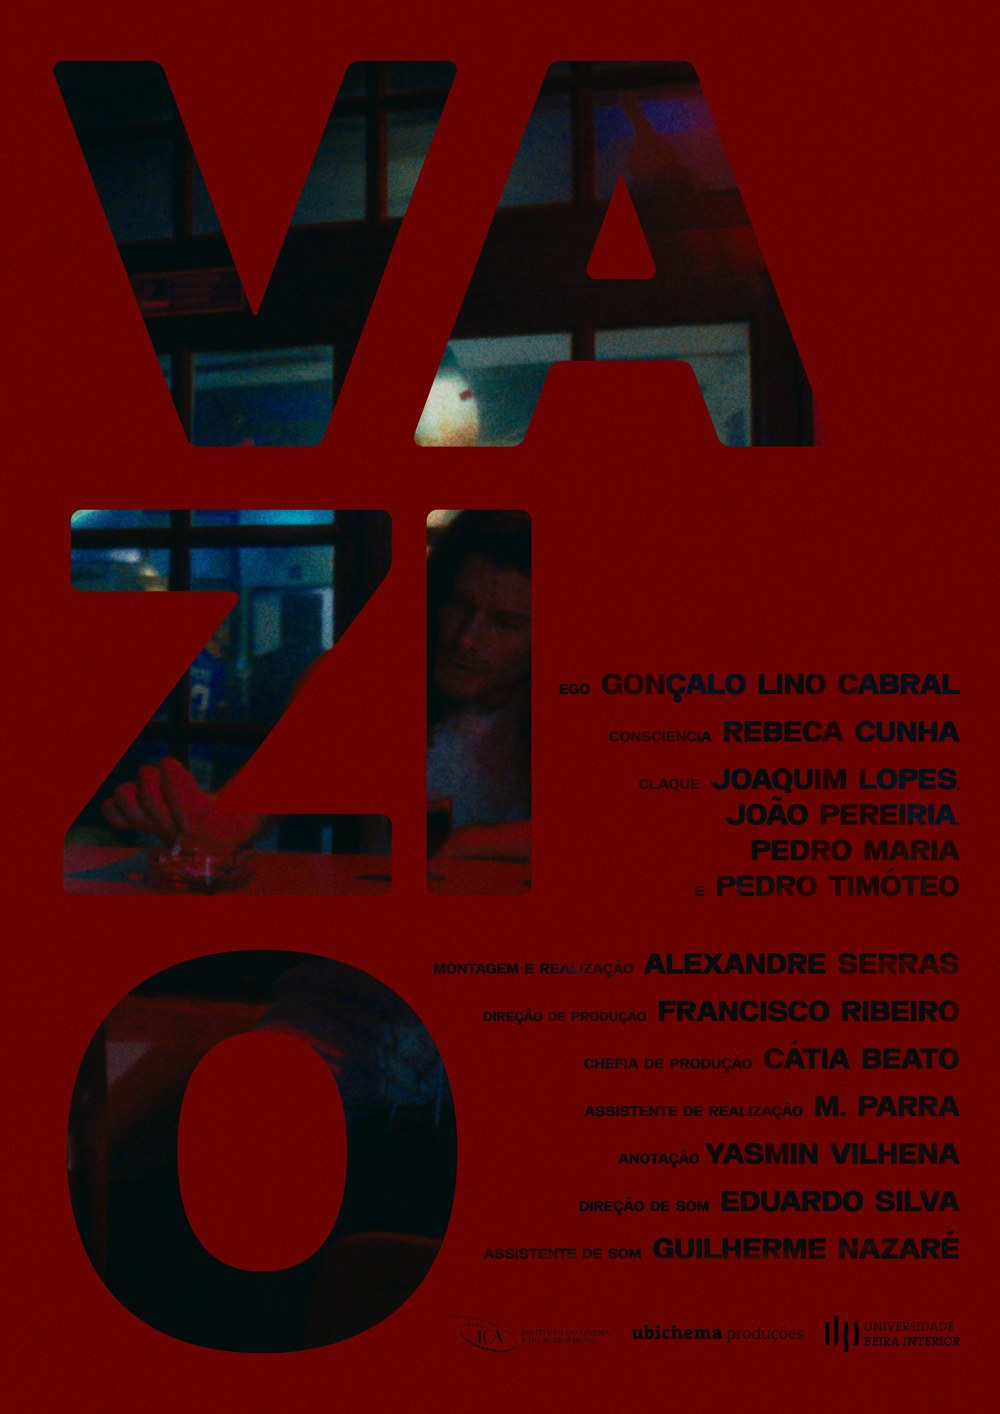
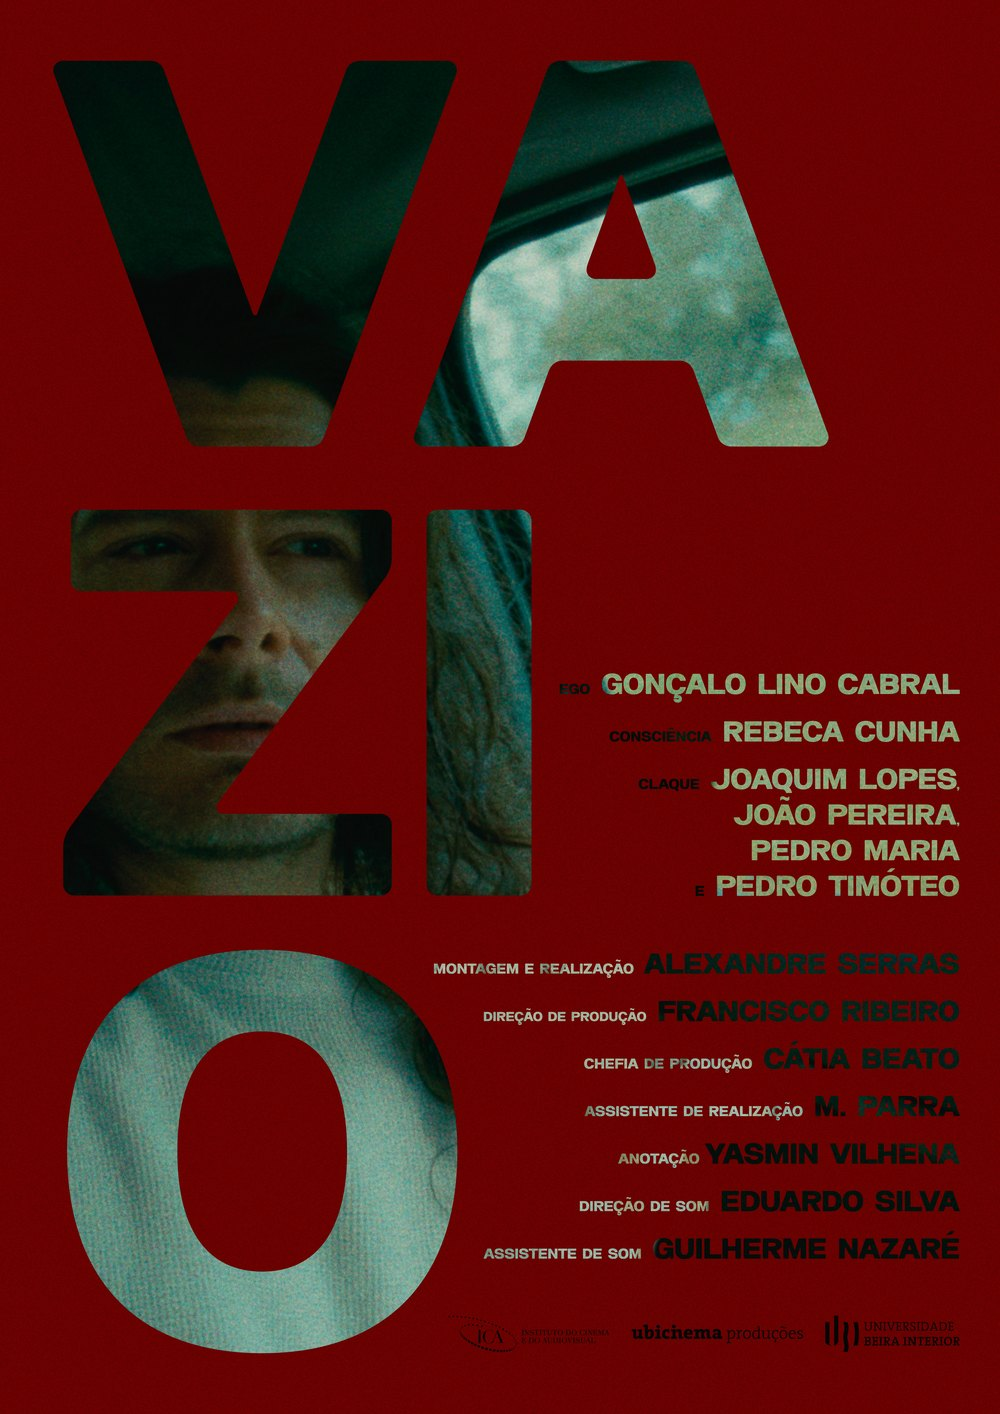
Vazio: novo cartaz no Cinema, na página do filme e na galeria Cartazes

diff --git a/en/05-cartazes.html b/en/05-cartazes.html
@@ -28,7 +28,7 @@
       <div class="chap-head"><span class="chap-num">05</span><h2 class="chap-name">POSTERS</h2></div>
       <div class="sec-block" id="a">
         <div class="sec-code">05.1 / GALLERY</div>
-        <div class="shots posters"><button type="button" class="shot" data-full="../images/cartazes/01.jpg" aria-label="Open poster B4"><img src="../images/cartazes/01-t.jpg" alt="Poster B4" width="520" height="735" loading="lazy"></button><button type="button" class="shot" data-full="../images/cartazes/02.jpg" aria-label="Open poster Desconsoada"><img src="../images/cartazes/02-t.jpg" alt="Poster Desconsoada" width="520" height="735" loading="lazy"></button><button type="button" class="shot" data-full="../images/cartazes/03.jpg" aria-label="Open poster Seja Como For"><img src="../images/cartazes/03-t.jpg" alt="Poster Seja Como For" width="520" height="735" loading="lazy"></button><button type="button" class="shot" data-full="../images/cartazes/04.jpg" aria-label="Open poster Nice Voyage"><img src="../images/cartazes/04-t.jpg" alt="Poster Nice Voyage" width="520" height="735" loading="lazy"></button><button type="button" class="shot" data-full="../images/cartazes/05.jpg" aria-label="Open poster Lumen"><img src="../images/cartazes/05-t.jpg" alt="Poster Lumen" width="520" height="735" loading="lazy"></button><button type="button" class="shot" data-full="../images/cartazes/06.jpg" aria-label="Open poster Traditional Tile Workshop"><img src="../images/cartazes/06-t.jpg" alt="Poster Traditional Tile Workshop" width="520" height="735" loading="lazy"></button><button type="button" class="shot" data-full="../images/cartazes/07.jpg" aria-label="Open poster Traz o Teu Cinema"><img src="../images/cartazes/07-t.jpg" alt="Poster Traz o Teu Cinema" width="520" height="735" loading="lazy"></button><button type="button" class="shot" data-full="../images/cartazes/08.jpg" aria-label="Open poster Eurodance DJ set"><img src="../images/cartazes/08-t.jpg" alt="Poster Eurodance DJ set" width="520" height="735" loading="lazy"></button><button type="button" class="shot" data-full="../images/cartazes/09.jpg" aria-label="Open poster Lumen 2"><img src="../images/cartazes/09-t.jpg" alt="Poster Lumen 2" width="520" height="735" loading="lazy"></button><button type="button" class="shot" data-full="../images/cartazes/10.jpg" aria-label="Open poster Youth Day"><img src="../images/cartazes/10-t.jpg" alt="Poster Youth Day" width="520" height="735" loading="lazy"></button><button type="button" class="shot" data-full="../images/cartazes/11.jpg" aria-label="Open poster Carnaval Party"><img src="../images/cartazes/11-t.jpg" alt="Poster Carnaval Party" width="520" height="735" loading="lazy"></button><button type="button" class="shot" data-full="../images/cartazes/12.jpg" aria-label="Open poster Traz o Teu Cinema, 2nd edition"><img src="../images/cartazes/12-t.jpg" alt="Poster Traz o Teu Cinema, 2nd edition" width="520" height="735" loading="lazy"></button><button type="button" class="shot" data-full="../images/cartazes/13.jpg" aria-label="Open poster AJS — Sardoal Youth Association"><img src="../images/cartazes/13-t.jpg" alt="Poster AJS — Sardoal Youth Association" width="520" height="735" loading="lazy"></button></div>
+        <div class="shots posters"><button type="button" class="shot" data-full="../images/cartazes/14.jpg" aria-label="Open poster Vazio"><img src="../images/cartazes/14-t.jpg" alt="Poster Vazio" width="520" height="735" loading="lazy"></button><button type="button" class="shot" data-full="../images/cartazes/01.jpg" aria-label="Open poster B4"><img src="../images/cartazes/01-t.jpg" alt="Poster B4" width="520" height="735" loading="lazy"></button><button type="button" class="shot" data-full="../images/cartazes/02.jpg" aria-label="Open poster Desconsoada"><img src="../images/cartazes/02-t.jpg" alt="Poster Desconsoada" width="520" height="735" loading="lazy"></button><button type="button" class="shot" data-full="../images/cartazes/03.jpg" aria-label="Open poster Seja Como For"><img src="../images/cartazes/03-t.jpg" alt="Poster Seja Como For" width="520" height="735" loading="lazy"></button><button type="button" class="shot" data-full="../images/cartazes/04.jpg" aria-label="Open poster Nice Voyage"><img src="../images/cartazes/04-t.jpg" alt="Poster Nice Voyage" width="520" height="735" loading="lazy"></button><button type="button" class="shot" data-full="../images/cartazes/05.jpg" aria-label="Open poster Lumen"><img src="../images/cartazes/05-t.jpg" alt="Poster Lumen" width="520" height="735" loading="lazy"></button><button type="button" class="shot" data-full="../images/cartazes/06.jpg" aria-label="Open poster Traditional Tile Workshop"><img src="../images/cartazes/06-t.jpg" alt="Poster Traditional Tile Workshop" width="520" height="735" loading="lazy"></button><button type="button" class="shot" data-full="../images/cartazes/07.jpg" aria-label="Open poster Traz o Teu Cinema"><img src="../images/cartazes/07-t.jpg" alt="Poster Traz o Teu Cinema" width="520" height="735" loading="lazy"></button><button type="button" class="shot" data-full="../images/cartazes/08.jpg" aria-label="Open poster Eurodance DJ set"><img src="../images/cartazes/08-t.jpg" alt="Poster Eurodance DJ set" width="520" height="735" loading="lazy"></button><button type="button" class="shot" data-full="../images/cartazes/09.jpg" aria-label="Open poster Lumen 2"><img src="../images/cartazes/09-t.jpg" alt="Poster Lumen 2" width="520" height="735" loading="lazy"></button><button type="button" class="shot" data-full="../images/cartazes/10.jpg" aria-label="Open poster Youth Day"><img src="../images/cartazes/10-t.jpg" alt="Poster Youth Day" width="520" height="735" loading="lazy"></button><button type="button" class="shot" data-full="../images/cartazes/11.jpg" aria-label="Open poster Carnaval Party"><img src="../images/cartazes/11-t.jpg" alt="Poster Carnaval Party" width="520" height="735" loading="lazy"></button><button type="button" class="shot" data-full="../images/cartazes/12.jpg" aria-label="Open poster Traz o Teu Cinema, 2nd edition"><img src="../images/cartazes/12-t.jpg" alt="Poster Traz o Teu Cinema, 2nd edition" width="520" height="735" loading="lazy"></button><button type="button" class="shot" data-full="../images/cartazes/13.jpg" aria-label="Open poster AJS — Sardoal Youth Association"><img src="../images/cartazes/13-t.jpg" alt="Poster AJS — Sardoal Youth Association" width="520" height="735" loading="lazy"></button></div>
       </div>
     </div>
     <div class="pageflip">

diff --git a/05-cartazes.html b/05-cartazes.html
@@ -28,7 +28,7 @@
       <div class="chap-head"><span class="chap-num">05</span><h2 class="chap-name">CARTAZES</h2></div>
       <div class="sec-block" id="a">
         <div class="sec-code">05.1 / GALERIA</div>
-        <div class="shots posters"><button type="button" class="shot" data-full="images/cartazes/01.jpg" aria-label="Abrir cartaz B4"><img src="images/cartazes/01-t.jpg" alt="Cartaz B4" width="520" height="735" loading="lazy"></button><button type="button" class="shot" data-full="images/cartazes/02.jpg" aria-label="Abrir cartaz Desconsoada"><img src="images/cartazes/02-t.jpg" alt="Cartaz Desconsoada" width="520" height="735" loading="lazy"></button><button type="button" class="shot" data-full="images/cartazes/03.jpg" aria-label="Abrir cartaz Seja Como For"><img src="images/cartazes/03-t.jpg" alt="Cartaz Seja Como For" width="520" height="735" loading="lazy"></button><button type="button" class="shot" data-full="images/cartazes/04.jpg" aria-label="Abrir cartaz Nice Voyage"><img src="images/cartazes/04-t.jpg" alt="Cartaz Nice Voyage" width="520" height="735" loading="lazy"></button><button type="button" class="shot" data-full="images/cartazes/05.jpg" aria-label="Abrir cartaz Lumen"><img src="images/cartazes/05-t.jpg" alt="Cartaz Lumen" width="520" height="735" loading="lazy"></button><button type="button" class="shot" data-full="images/cartazes/06.jpg" aria-label="Abrir cartaz Workshop Azulejo Tradicional"><img src="images/cartazes/06-t.jpg" alt="Cartaz Workshop Azulejo Tradicional" width="520" height="735" loading="lazy"></button><button type="button" class="shot" data-full="images/cartazes/07.jpg" aria-label="Abrir cartaz Traz o Teu Cinema"><img src="images/cartazes/07-t.jpg" alt="Cartaz Traz o Teu Cinema" width="520" height="735" loading="lazy"></button><button type="button" class="shot" data-full="images/cartazes/08.jpg" aria-label="Abrir cartaz Eurodance DJ set"><img src="images/cartazes/08-t.jpg" alt="Cartaz Eurodance DJ set" width="520" height="735" loading="lazy"></button><button type="button" class="shot" data-full="images/cartazes/09.jpg" aria-label="Abrir cartaz Lumen 2"><img src="images/cartazes/09-t.jpg" alt="Cartaz Lumen 2" width="520" height="735" loading="lazy"></button><button type="button" class="shot" data-full="images/cartazes/10.jpg" aria-label="Abrir cartaz Dia da Juventude"><img src="images/cartazes/10-t.jpg" alt="Cartaz Dia da Juventude" width="520" height="735" loading="lazy"></button><button type="button" class="shot" data-full="images/cartazes/11.jpg" aria-label="Abrir cartaz Carnaval Party"><img src="images/cartazes/11-t.jpg" alt="Cartaz Carnaval Party" width="520" height="735" loading="lazy"></button><button type="button" class="shot" data-full="images/cartazes/12.jpg" aria-label="Abrir cartaz Traz o Teu Cinema, II edição"><img src="images/cartazes/12-t.jpg" alt="Cartaz Traz o Teu Cinema, II edição" width="520" height="735" loading="lazy"></button><button type="button" class="shot" data-full="images/cartazes/13.jpg" aria-label="Abrir cartaz AJS — Associação de Jovens do Sardoal"><img src="images/cartazes/13-t.jpg" alt="Cartaz AJS — Associação de Jovens do Sardoal" width="520" height="735" loading="lazy"></button></div>
+        <div class="shots posters"><button type="button" class="shot" data-full="images/cartazes/14.jpg" aria-label="Abrir cartaz Vazio"><img src="images/cartazes/14-t.jpg" alt="Cartaz Vazio" width="520" height="735" loading="lazy"></button><button type="button" class="shot" data-full="images/cartazes/01.jpg" aria-label="Abrir cartaz B4"><img src="images/cartazes/01-t.jpg" alt="Cartaz B4" width="520" height="735" loading="lazy"></button><button type="button" class="shot" data-full="images/cartazes/02.jpg" aria-label="Abrir cartaz Desconsoada"><img src="images/cartazes/02-t.jpg" alt="Cartaz Desconsoada" width="520" height="735" loading="lazy"></button><button type="button" class="shot" data-full="images/cartazes/03.jpg" aria-label="Abrir cartaz Seja Como For"><img src="images/cartazes/03-t.jpg" alt="Cartaz Seja Como For" width="520" height="735" loading="lazy"></button><button type="button" class="shot" data-full="images/cartazes/04.jpg" aria-label="Abrir cartaz Nice Voyage"><img src="images/cartazes/04-t.jpg" alt="Cartaz Nice Voyage" width="520" height="735" loading="lazy"></button><button type="button" class="shot" data-full="images/cartazes/05.jpg" aria-label="Abrir cartaz Lumen"><img src="images/cartazes/05-t.jpg" alt="Cartaz Lumen" width="520" height="735" loading="lazy"></button><button type="button" class="shot" data-full="images/cartazes/06.jpg" aria-label="Abrir cartaz Workshop Azulejo Tradicional"><img src="images/cartazes/06-t.jpg" alt="Cartaz Workshop Azulejo Tradicional" width="520" height="735" loading="lazy"></button><button type="button" class="shot" data-full="images/cartazes/07.jpg" aria-label="Abrir cartaz Traz o Teu Cinema"><img src="images/cartazes/07-t.jpg" alt="Cartaz Traz o Teu Cinema" width="520" height="735" loading="lazy"></button><button type="button" class="shot" data-full="images/cartazes/08.jpg" aria-label="Abrir cartaz Eurodance DJ set"><img src="images/cartazes/08-t.jpg" alt="Cartaz Eurodance DJ set" width="520" height="735" loading="lazy"></button><button type="button" class="shot" data-full="images/cartazes/09.jpg" aria-label="Abrir cartaz Lumen 2"><img src="images/cartazes/09-t.jpg" alt="Cartaz Lumen 2" width="520" height="735" loading="lazy"></button><button type="button" class="shot" data-full="images/cartazes/10.jpg" aria-label="Abrir cartaz Dia da Juventude"><img src="images/cartazes/10-t.jpg" alt="Cartaz Dia da Juventude" width="520" height="735" loading="lazy"></button><button type="button" class="shot" data-full="images/cartazes/11.jpg" aria-label="Abrir cartaz Carnaval Party"><img src="images/cartazes/11-t.jpg" alt="Cartaz Carnaval Party" width="520" height="735" loading="lazy"></button><button type="button" class="shot" data-full="images/cartazes/12.jpg" aria-label="Abrir cartaz Traz o Teu Cinema, II edição"><img src="images/cartazes/12-t.jpg" alt="Cartaz Traz o Teu Cinema, II edição" width="520" height="735" loading="lazy"></button><button type="button" class="shot" data-full="images/cartazes/13.jpg" aria-label="Abrir cartaz AJS — Associação de Jovens do Sardoal"><img src="images/cartazes/13-t.jpg" alt="Cartaz AJS — Associação de Jovens do Sardoal" width="520" height="735" loading="lazy"></button></div>
       </div>
     </div>
     <div class="pageflip">

diff --git a/en/03-cinema.html b/en/03-cinema.html
@@ -29,7 +29,7 @@
       <div class="sec-block" id="a">
         <div class="sec-code">03.1</div>
         <h3 class="sec-title">Direction</h3>
-        <div class="rail"><a class="card" href="filme-vazio.html"><img src="../images/cartaz-vazio.jpg" alt="Poster for Vazio" loading="lazy"><div class="card-t">VAZIO</div><div class="card-m">2026 · Direction</div></a><a class="card" href="filme-morte-de-encarnado.html"><img src="../images/cartaz-morte-de-encarnado.jpg" alt="Poster for Morte de Encarnado" loading="lazy"><div class="card-t">MORTE DE ENCARNADO</div><div class="card-m">2024 · Direction</div></a><a class="card" href="filme-plutocracia.html"><img src="../images/cartaz-plutocracia.jpg" alt="Poster for Plutocracia" loading="lazy"><div class="card-t">PLUTOCRACIA</div><div class="card-m">2024 · Co-direction</div></a></div>
+        <div class="rail"><a class="card" href="filme-vazio.html"><img src="../images/cartaz-vazio.jpg?v=2" alt="Poster for Vazio" loading="lazy"><div class="card-t">VAZIO</div><div class="card-m">2026 · Direction</div></a><a class="card" href="filme-morte-de-encarnado.html"><img src="../images/cartaz-morte-de-encarnado.jpg" alt="Poster for Morte de Encarnado" loading="lazy"><div class="card-t">MORTE DE ENCARNADO</div><div class="card-m">2024 · Direction</div></a><a class="card" href="filme-plutocracia.html"><img src="../images/cartaz-plutocracia.jpg" alt="Poster for Plutocracia" loading="lazy"><div class="card-t">PLUTOCRACIA</div><div class="card-m">2024 · Co-direction</div></a></div>
       </div>
       <div class="sec-block" id="b">
         <div class="sec-code">03.2</div>

diff --git a/03-cinema.html b/03-cinema.html
@@ -29,7 +29,7 @@
       <div class="sec-block" id="a">
         <div class="sec-code">03.1</div>
         <h3 class="sec-title">Realização</h3>
-        <div class="rail"><a class="card" href="filme-vazio.html"><img src="images/cartaz-vazio.jpg" alt="Cartaz de Vazio" loading="lazy"><div class="card-t">VAZIO</div><div class="card-m">2026 · Realização</div></a><a class="card" href="filme-morte-de-encarnado.html"><img src="images/cartaz-morte-de-encarnado.jpg" alt="Cartaz de Morte de Encarnado" loading="lazy"><div class="card-t">MORTE DE ENCARNADO</div><div class="card-m">2024 · Realização</div></a><a class="card" href="filme-plutocracia.html"><img src="images/cartaz-plutocracia.jpg" alt="Cartaz de Plutocracia" loading="lazy"><div class="card-t">PLUTOCRACIA</div><div class="card-m">2024 · Co-realização</div></a></div>
+        <div class="rail"><a class="card" href="filme-vazio.html"><img src="images/cartaz-vazio.jpg?v=2" alt="Cartaz de Vazio" loading="lazy"><div class="card-t">VAZIO</div><div class="card-m">2026 · Realização</div></a><a class="card" href="filme-morte-de-encarnado.html"><img src="images/cartaz-morte-de-encarnado.jpg" alt="Cartaz de Morte de Encarnado" loading="lazy"><div class="card-t">MORTE DE ENCARNADO</div><div class="card-m">2024 · Realização</div></a><a class="card" href="filme-plutocracia.html"><img src="images/cartaz-plutocracia.jpg" alt="Cartaz de Plutocracia" loading="lazy"><div class="card-t">PLUTOCRACIA</div><div class="card-m">2024 · Co-realização</div></a></div>
       </div>
       <div class="sec-block" id="b">
         <div class="sec-code">03.2</div>

diff --git a/filme-vazio.html b/filme-vazio.html
@@ -33,7 +33,7 @@
           <div class="sec-block"><div class="sec-code">SELECÇÕES</div><p class="body-text">Imagens no Tejo - Mostra de Cinema Português (2026)</p></div>
           <div class="sec-block"><div class="sec-code">LIGAÇÕES</div><p class="body-text"><a class="u-link" href="https://filmfreeway.com/Vazio_curta" target="_blank" rel="noopener">FilmFreeway ↗</a></p></div>
         </div>
-        <div class="collage-photo poster"><span class="tape tl"></span><span class="tape br"></span><img src="images/cartaz-vazio.jpg" alt="Cartaz de Vazio" loading="lazy"></div>
+        <div class="collage-photo poster"><span class="tape tl"></span><span class="tape br"></span><img src="images/cartaz-vazio.jpg?v=2" alt="Cartaz de Vazio" loading="lazy"></div>
       </div>
     </div>
     <div class="pageflip">

diff --git a/en/filme-vazio.html b/en/filme-vazio.html
@@ -33,7 +33,7 @@
           <div class="sec-block"><div class="sec-code">SELECTIONS</div><p class="body-text">Imagens no Tejo - Portuguese Film Showcase (2026)</p></div>
           <div class="sec-block"><div class="sec-code">LINKS</div><p class="body-text"><a class="u-link" href="https://filmfreeway.com/Vazio_curta" target="_blank" rel="noopener">FilmFreeway ↗</a></p></div>
         </div>
-        <div class="collage-photo poster"><span class="tape tl"></span><span class="tape br"></span><img src="../images/cartaz-vazio.jpg" alt="Poster for Vazio" loading="lazy"></div>
+        <div class="collage-photo poster"><span class="tape tl"></span><span class="tape br"></span><img src="../images/cartaz-vazio.jpg?v=2" alt="Poster for Vazio" loading="lazy"></div>
       </div>
     </div>
     <div class="pageflip">
